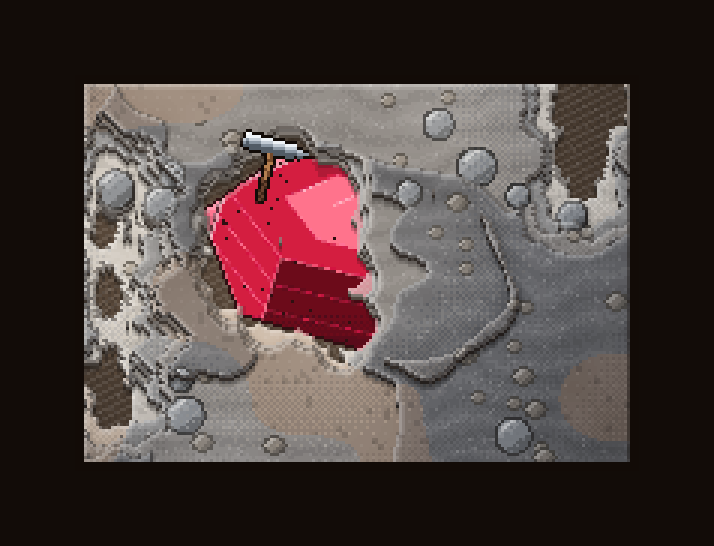
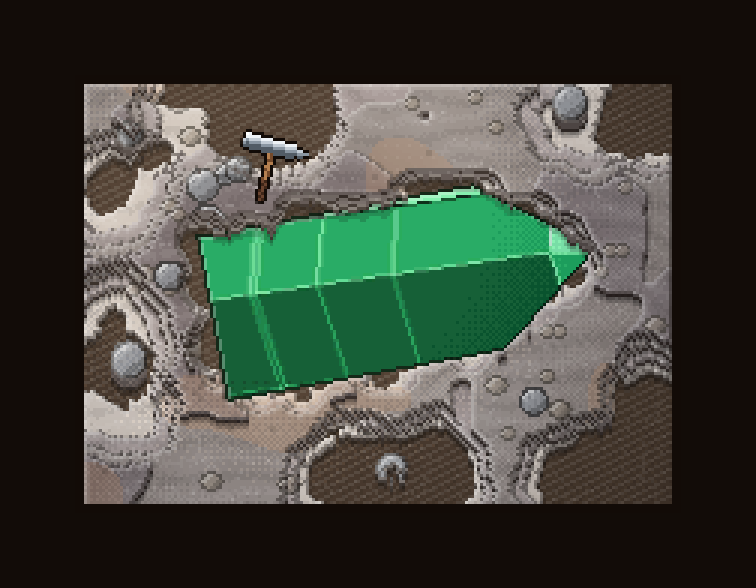
0.2.1 に合わせて更新

diff --git a/index.html b/index.html
@@ -87,11 +87,15 @@ footer { color: var(--dim); font-size: 13px; text-align: center; padding: 40px 0
     <h2>どんなゲーム？</h2>
     <div class="feature">
       <img src="img/wall.png" alt="宝石が生えた岩">
-      <p>工房の真ん中に浮かぶ岩に、勝手に結晶が生えてきます。指（マウス）でなぞれば収穫。岩の種類や温度、湿り気、置いた設備で生えるものが変わるので、図鑑の「？」を埋めていくのが基本の遊びです。</p>
+      <p>工房の真ん中に浮かぶ岩に、勝手に結晶が生えてきます。指（マウス）でなぞれば収穫。岩の種類や温度、湿り気、しみこませた鉱液、置いた設備で生えるものが変わります。図鑑は560種ちょっと。「？」を埋めていくのが基本の遊びです。</p>
     </div>
     <div class="feature">
       <img src="img/cleaning.png" alt="岩からルビーを掘り出しているところ">
-      <p>初めて見つけた石は、正体の分からない原石で届きます。ハンマーとブラシで周りの岩を落としていくと、だんだん中身が見えてくる。割りすぎると欠けるので、そこは慎重に。</p>
+      <p>初めて見つけた石は、正体の分からない原石で届きます。ハンマーでざっくり割って、ドリルで寄せて、最後は刷毛で払う。だんだん中身が見えてくるのがいちばん楽しいところです。収穫していると中身の分からない塊もときどき混ざるので、何が出るかはお楽しみ。</p>
+    </div>
+    <div class="feature">
+      <img src="img/seep.png" alt="鉱液がしみた岩">
+      <p>鉄、銅、ベリリウム……岩に鉱液をしみこませると、生えてくる宝石の顔ぶれが変わります。気に入った結晶は鍵をかけて残しておけて、その隣にしか芽吹かない石もあります。</p>
     </div>
     <div class="feature">
       <img src="img/dig.png" alt="火山のふもとの発掘場">
